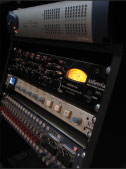
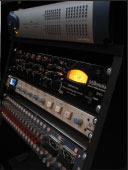
added studio page image optimization

diff --git a/resources/views/studio.blade.php b/resources/views/studio.blade.php
@@ -90,14 +90,22 @@
                         <div class="marquee-flow d-flex">
                             @for($i = 0; $i < 2; $i++)
                                 <span class="d-flex">
-                                    <img src="/images/studio/studio-1.jpg" height="170" alt="CTS студия, CTS студія, услуги студии звукозаписи Киев, студия звукозаписи Киев, профессиональная студия в Киеве,">
-                                    <img src="/images/studio/studio-2.jpg" height="170" alt="ремиксы, мастеринг, аранжировка, вокал, сведение">
-                                    <img src="/images/studio/studio-3.jpg" height="170" alt="зведення музикальних композицій, зведення та мастеринг">
-                                    <img src="/images/studio/studio-4.jpg" height="170" alt="профессиональный мастеринг, качественное сведение и мастеринг в Киеве">
-                                    <img src="/images/studio/studio-5.jpg" height="170" alt="школа, диджеинг, продюсеринг, запись">
-                                    <img src="/images/studio/studio-6.jpg" height="170" alt="professional mixing and mastering">
-                                    <img src="/images/studio/studio-7.jpg" height="170" alt="студії звукозапису Київ">
-                                    <img src="/images/studio/studio-8.jpg" height="170" alt="услуги звукозаписи, CTS, CTS studio Kiev">
+                                    <x-picture :src="['/images/studio/studio-1.webp', '/images/studio/studio-1.jpg']" height="170"
+                                         alt="CTS студия, CTS студія, услуги студии звукозаписи Киев, студия звукозаписи Киев, профессиональная студия в Киеве"/>
+                                    <x-picture :src="['/images/studio/studio-2.webp', '/images/studio/studio-2.jpg']" height="170"
+                                         alt="ремиксы, мастеринг, аранжировка, вокал, сведение"/>
+                                    <x-picture :src="['/images/studio/studio-3.webp', '/images/studio/studio-3.jpg']" height="170"
+                                         alt="зведення музикальних композицій, зведення та мастеринг"/>
+                                    <x-picture :src="['/images/studio/studio-4.webp', '/images/studio/studio-4.jpg']" height="170"
+                                         alt="профессиональный мастеринг, качественное сведение и мастеринг в Киеве"/>
+                                    <x-picture :src="['/images/studio/studio-5.webp', '/images/studio/studio-5.jpg']" height="170"
+                                         alt="школа, диджеинг, продюсеринг, запись"/>
+                                    <x-picture :src="['/images/studio/studio-6.webp', '/images/studio/studio-6.jpg']" height="170"
+                                         alt="professional mixing and mastering"/>
+                                    <x-picture :src="['/images/studio/studio-7.webp', '/images/studio/studio-7.jpg']" height="170"
+                                         alt="студії звукозапису Київ"/>
+                                    <x-picture :src="['/images/studio/studio-8.webp', '/images/studio/studio-8.jpg']" height="170"
+                                         alt="услуги звукозаписи, CTS, CTS studio Kiev"/>
                                 </span>
                             @endfor
                         </div>
@@ -134,8 +142,8 @@
                             <div class="service-item m-3">
                                 <button data-bs-toggle="modal" data-bs-target="#service-modal" data-name="{{ $service->name }}"
                                         class="service-link bg-transparent">
-                                    <img src="/images/studio/services/{{ $service->image }}" loading="lazy" height="185" width="185"
-                                         class="service-image" @if($service->service_alt) alt="{{ $service->service_alt }}" @endif>
+                                    <x-picture :src="['/images/studio/services/'.$service->image_webp, '/images/studio/services/'.$service->image]"
+                                           loading="lazy" height="185" width="185" class="service-image" alt="{{ $service->service_alt }}"/>
                                 </button>
                             </div>
                         @endforeach

diff --git a/app/Http/Controllers/Admin/AdminStudioController.php b/app/Http/Controllers/Admin/AdminStudioController.php
@@ -28,9 +28,7 @@ class AdminStudioController extends Controller{
         $service->category = 'services';
         $service->sort_id = intval($service->getLatestSortId(StudioService::class) + 1);
         if($request->hasFile('image')){
-            $image = $request->file('image');
-            $service->image = md5($image->getClientOriginalName(). time()).'.webp';
-            Image::load($image->getPathname())->width(185)->format(Manipulations::FORMAT_WEBP)->save(public_path('images/school/courses/').$service->image);
+            $service->saveImage($request->file('image'));
         }
         return $service->save() ?
             redirect()->route('studio.index')->with(['success' => 'Услуга успешно добавлена!']) :
@@ -47,15 +45,8 @@ class AdminStudioController extends Controller{
         $studio->fill($request->post());
         $studio->category = 'services';
         if($request->hasFile('image')){
-            // delete old image
-            $path = public_path('images/studio/services/').$studio->image;
-            if(file_exists($path) && is_file($path)){
-                unlink($path);
-            }
-            // upload new image
-            $image = $request->file('image');
-            $studio->image = md5($image->getClientOriginalName(). time()).'.webp';
-            Image::load($image->getPathname())->width(185)->format(Manipulations::FORMAT_WEBP)->save(public_path('images/school/courses/').$studio->image);
+            $studio->deleteImages();
+            $studio->saveImage($request->file('image'));
         }
         return $studio->save() ?
             redirect()->route('studio.index')->with(['success' => 'Услуга успешно отредактирована!']) :
@@ -63,13 +54,7 @@ class AdminStudioController extends Controller{
     }
 
     public function destroy(StudioService $studio){
-        if($studio->image){
-            // delete image
-            $path = public_path('images/studio/services/').$studio->image;
-            if(file_exists($path) && is_file($path)){
-                unlink($path);
-            }
-        }
+        $studio->deleteImages();
         return $studio->delete() ?
             redirect()->back()->with(['success' => 'Услуга успешно удалена!']) :
             redirect()->back()->withErrors(['Возникла ошибка =(']);

diff --git a/app/StudioService.php b/app/StudioService.php
@@ -2,6 +2,10 @@
 
 namespace App;
 
+use Illuminate\Http\UploadedFile;
+use Spatie\Image\Image;
+use Spatie\Image\Manipulations;
+
 class StudioService extends SharedModel{
 
     protected $table = 'studio';
@@ -17,5 +21,23 @@ class StudioService extends SharedModel{
         'sort_id',
         'visible'
     ];
+
+    public function saveImage(UploadedFile $image){
+        $name = md5($image->getClientOriginalName().time());
+        $this->image = $name.'.jpg';
+        $this->image_webp = $name.'.webp';
+        $file = Image::load($image->getPathname())->width(185)->quality(75);
+        $file->format(Manipulations::FORMAT_WEBP)->save(public_path('images/studio/services/').$this->image_webp);
+        $file->format(Manipulations::FORMAT_JPG)->save(public_path('images/studio/services/').$this->image);
+    }
+
+    public function deleteImages(){
+        foreach([$this->image ?? null, $this->image_webp ?? null] as $src){
+            $path = public_path('images/studio/services/').$src;
+            if(file_exists($path) && is_file($path)){
+                unlink($path);
+            }
+        }
+    }
 
 }
